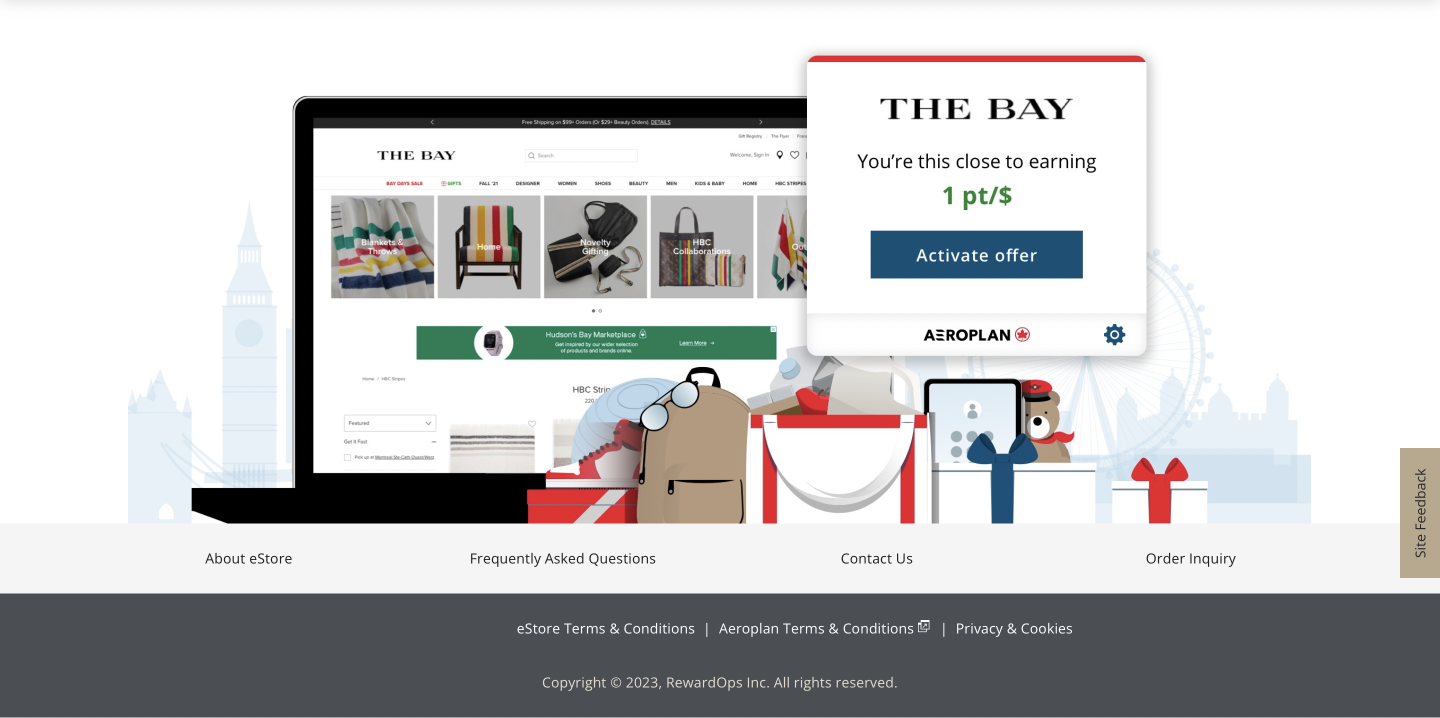
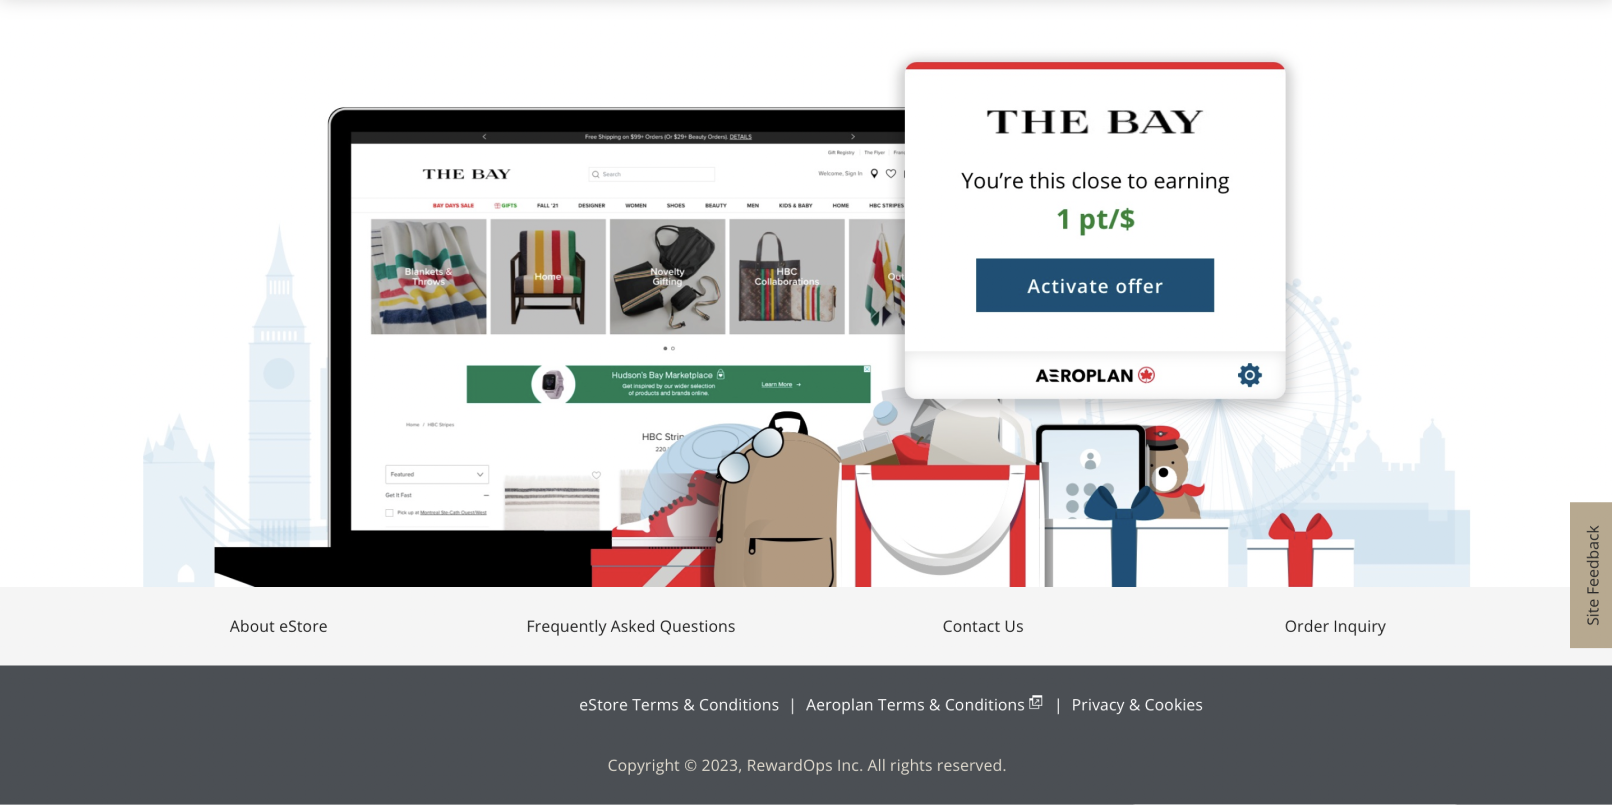
added footer

diff --git a/src/pages/Landing/Landing.js b/src/pages/Landing/Landing.js
@@ -4,6 +4,7 @@ import FrequentFlyerView from "../../components/FrequentFlyerView/FrequentFlyerV
 import EverydayEarnerView from "../../components/EverydayEarnerView/EverydayEarnerView";
 import cart from "../../assets/HeroImage3.png";
 import extensionIcon from "../../assets/ExtensionLogo.png";
+import footer from "../../assets/images/Footer.png";
 
 function Landing() {
   return (
@@ -37,16 +38,20 @@ function Landing() {
             </div>
             <div className="howto__textcontainer">
               <div className="howto__text">
-              <h1 className="howto__title">How do you use it:</h1>
-              
-              <p className="bold">Step 1:</p>
-              <p className="bold bold--bottom">Install the extension to the browser</p>
-              
-              <p className="bold">Step 2:</p>
-              <p className="bold bold--bottom">Sign in to your Aeroplan account</p>
-              
-              <p className="bold">Step 3:</p>
-              <p className="bold bold--bottom">Track and redeem points</p>
+                <h1 className="howto__title">How do you use it:</h1>
+
+                <p className="bold">Step 1:</p>
+                <p className="bold bold--bottom">
+                  Install the extension to the browser
+                </p>
+
+                <p className="bold">Step 2:</p>
+                <p className="bold bold--bottom">
+                  Sign in to your Aeroplan account
+                </p>
+
+                <p className="bold">Step 3:</p>
+                <p className="bold bold--bottom">Track and redeem points</p>
               </div>
             </div>
           </div>
@@ -64,10 +69,11 @@ function Landing() {
           <button className="button button--landing">Add to Chrome</button>
         </div>
       </section>
-
+      {/* <div className="footer"></div> */}
       <footer>
-        <div className="footer"></div>
+        <img className="footer-image" src={footer} />
       </footer>
+      {/* <div className="footer-section"></div> */}
     </>
   );
 }

diff --git a/src/pages/Landing/Landing.scss b/src/pages/Landing/Landing.scss
@@ -45,13 +45,11 @@
     align-items: center;
   }
 
-  &__text{
+  &__text {
     text-align: start;
     display: flex;
     flex-direction: column;
   }
-  
-
 
   &__image-container {
     display: flex;
@@ -63,8 +61,6 @@
 }
 
 .dontmiss {
-
-  
   align-content: center;
   min-height: 55rem;
   display: flex;
@@ -77,9 +73,20 @@
   }
 }
 
-.footer {
-  //   background-image: url(../../assets/Footer.png);
-  //   background-repeat: no-repeat;
-  height: 141vh;
-  width: 100vw;
+// .footer {
+//   //   background-image: url(../../assets/Footer.png);
+//   //   background-repeat: no-repeat;
+
+//   width: 100vw;
+//   height: auto;
+// }
+
+footer {
+  width: 100%;
+}
+.footer-image {
+  display: inline-block;
+  margin: 0 auto;
+  padding: 0;
+  width: 100%;
 }

diff --git a/src/styles/partials/_variables.scss b/src/styles/partials/_variables.scss
@@ -1,13 +1,12 @@
 //colors
-$neutralsColor1: #FFFFFF;
+$neutralsColor1: #ffffff;
 $neutralsColor2: #000000;
-$neutralsColor3: #4B4F54;
-$primaryColor1: #8A171B;
-$primaryColor2: #ABCEE4;
+$neutralsColor3: #4b4f54;
+$primaryColor1: #8a171b;
+$primaryColor2: #bfd7e7;
 
 $secondaryColor1: #005078;
-$secondaryColor2: #F01428;
-
+$secondaryColor2: #f01428;
 
 //margins:
 $margin-side: 6rem;
